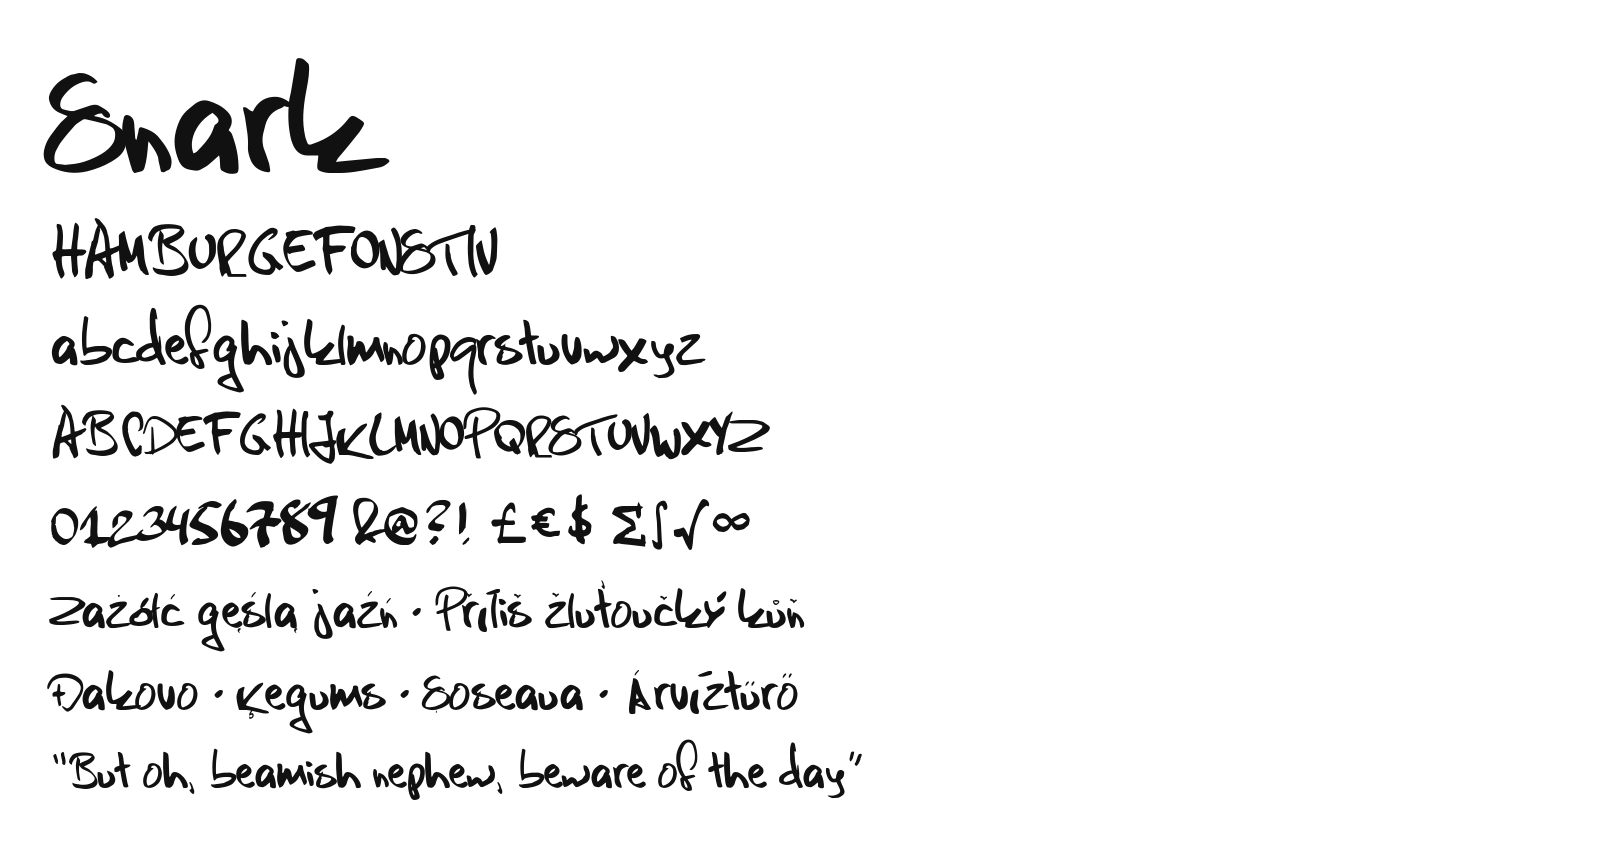
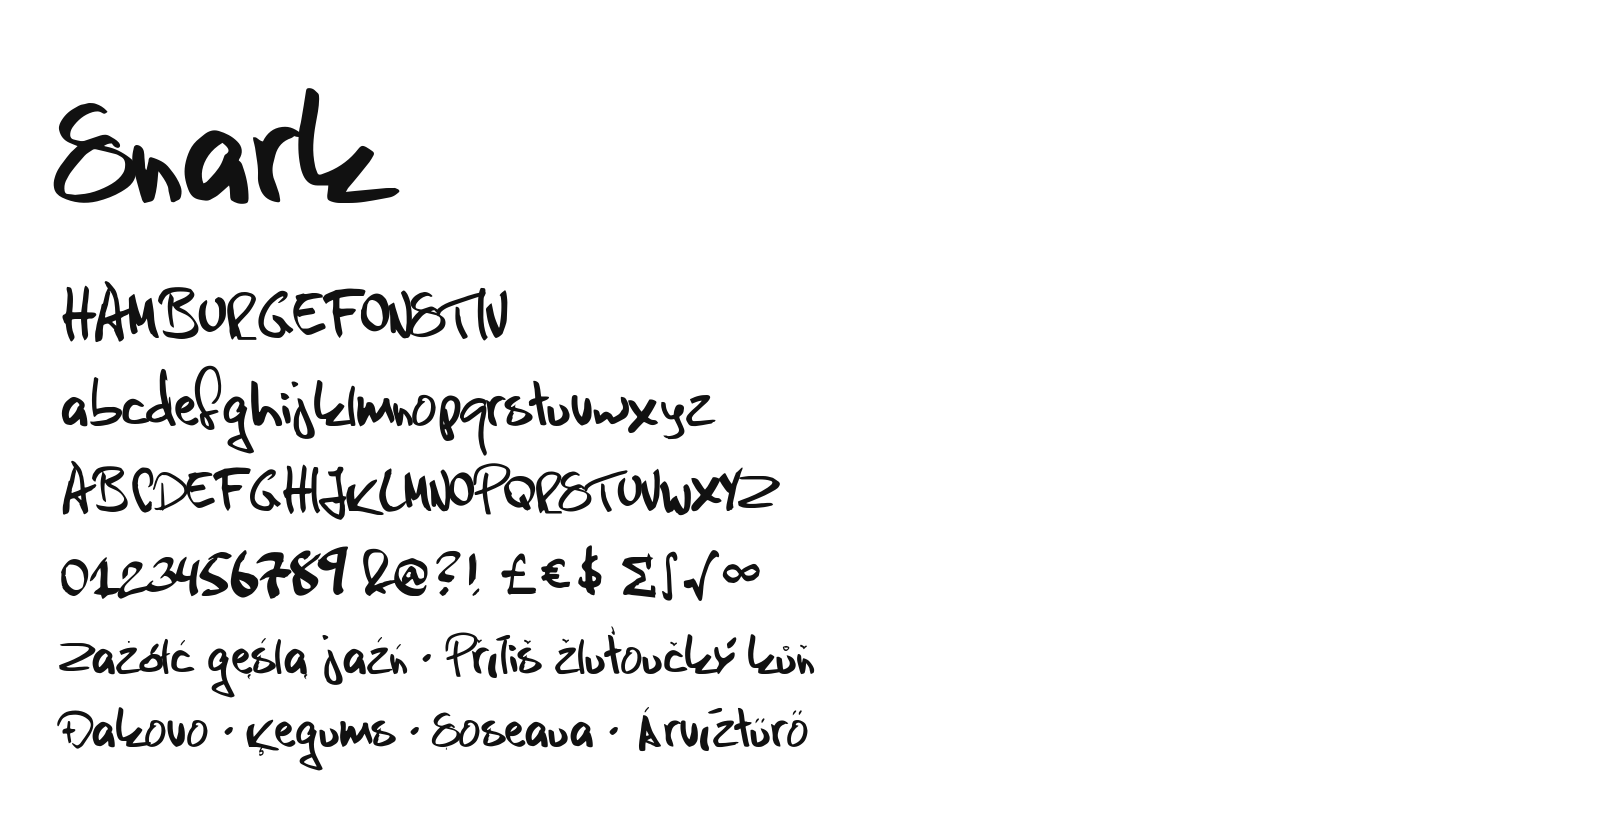
Add catalog article and specimen images
The About text for the Google Fonts specimen page, with alphabet and
language-coverage images. Kept to 131 words — the published catalog
runs 27 to 130 for comparable families, well under the guide sample
of 500.

The repo specimen no longer quotes a poem.

Changed region(s): [[0.0312, 0.0602, 0.5, 0.6325], [0.0312, 0.6627, 0.5312, 0.9337]]

diff --git a/article/ARTICLE.en_us.html b/article/ARTICLE.en_us.html
@@ -1,0 +1,26 @@
+<p>
+Snark is a felt-tip hand written at speed. No two letters lean quite the same way
+and the baseline wanders, but the strokes are decisive and the bowls stay round
+and open, so it reads as quick rather than careless. The hand is the designer's
+own, from Swedish games magazines where headlines were scrawled fast and loud —
+nearer a tag on a wall than typesetting. It holds together further down the scale
+than most hands of its kind.
+To contribute, see
+<a href="https://github.com/linusareng/Snark">github.com/linusareng/Snark</a>.
+</p>
+
+<figure>
+  <img src="snark-alphabet.png" alt="The Snark alphabet in upper and lower case, with numerals and punctuation">
+</figure>
+
+<p>
+It covers the Google Fonts Latin Core character set, supporting Polish, Czech,
+Slovak, Croatian, Latvian, Lithuanian, Romanian, Hungarian, Turkish, Maltese,
+Icelandic, German and the other Latin-script languages of Europe. Accented forms
+are composed from drawn marks, so a caron carries the same hand as the letter
+beneath it.
+</p>
+
+<figure>
+  <img src="snark-languages.png" alt="Snark set in Polish, Czech, Croatian, Latvian, Romanian, Hungarian, Turkish, Maltese, Icelandic and German">
+</figure>
